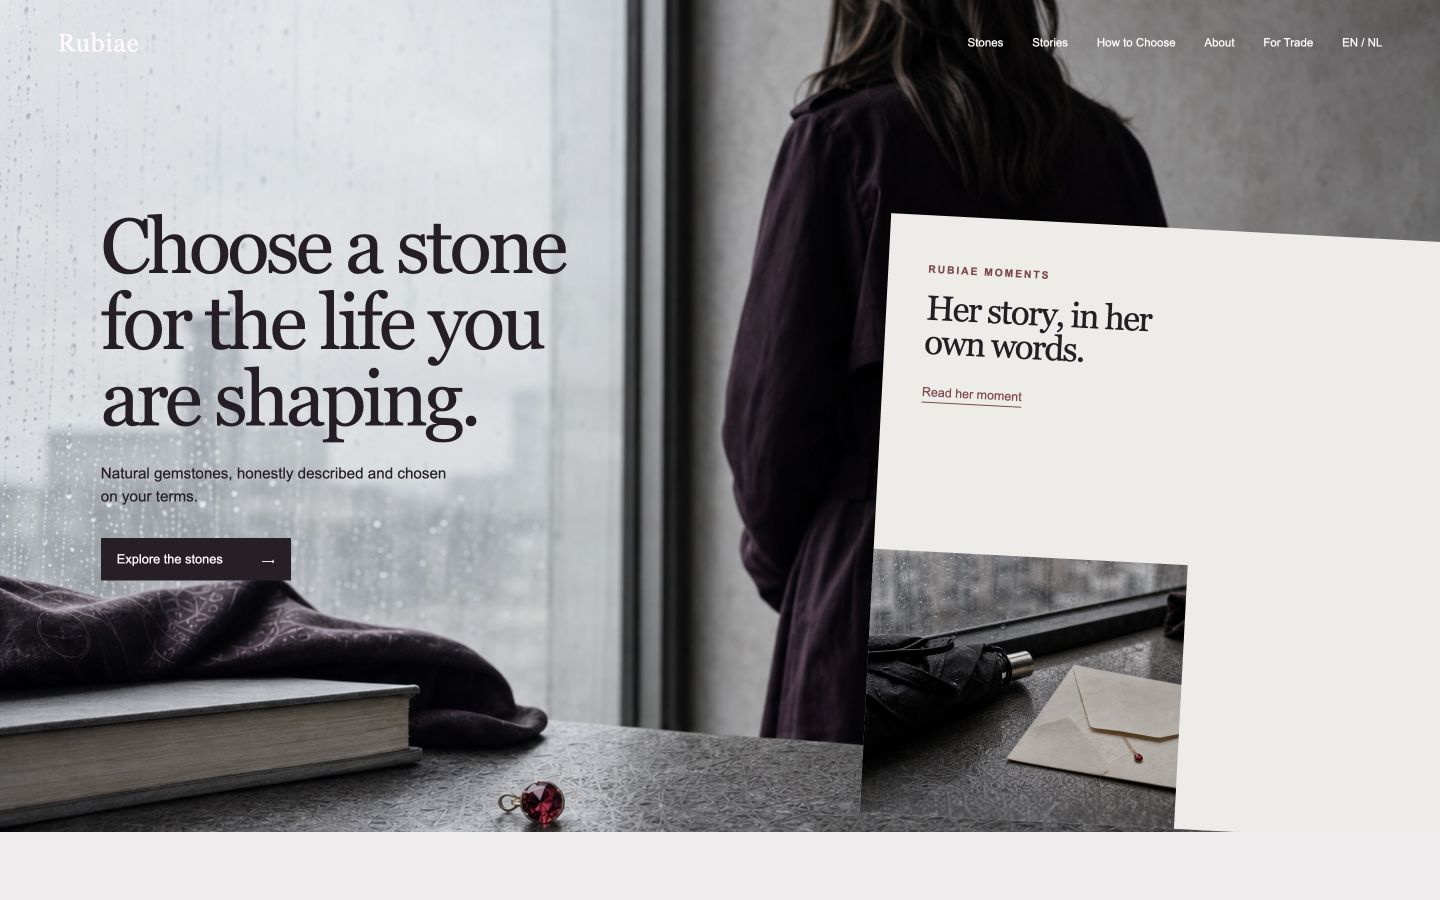
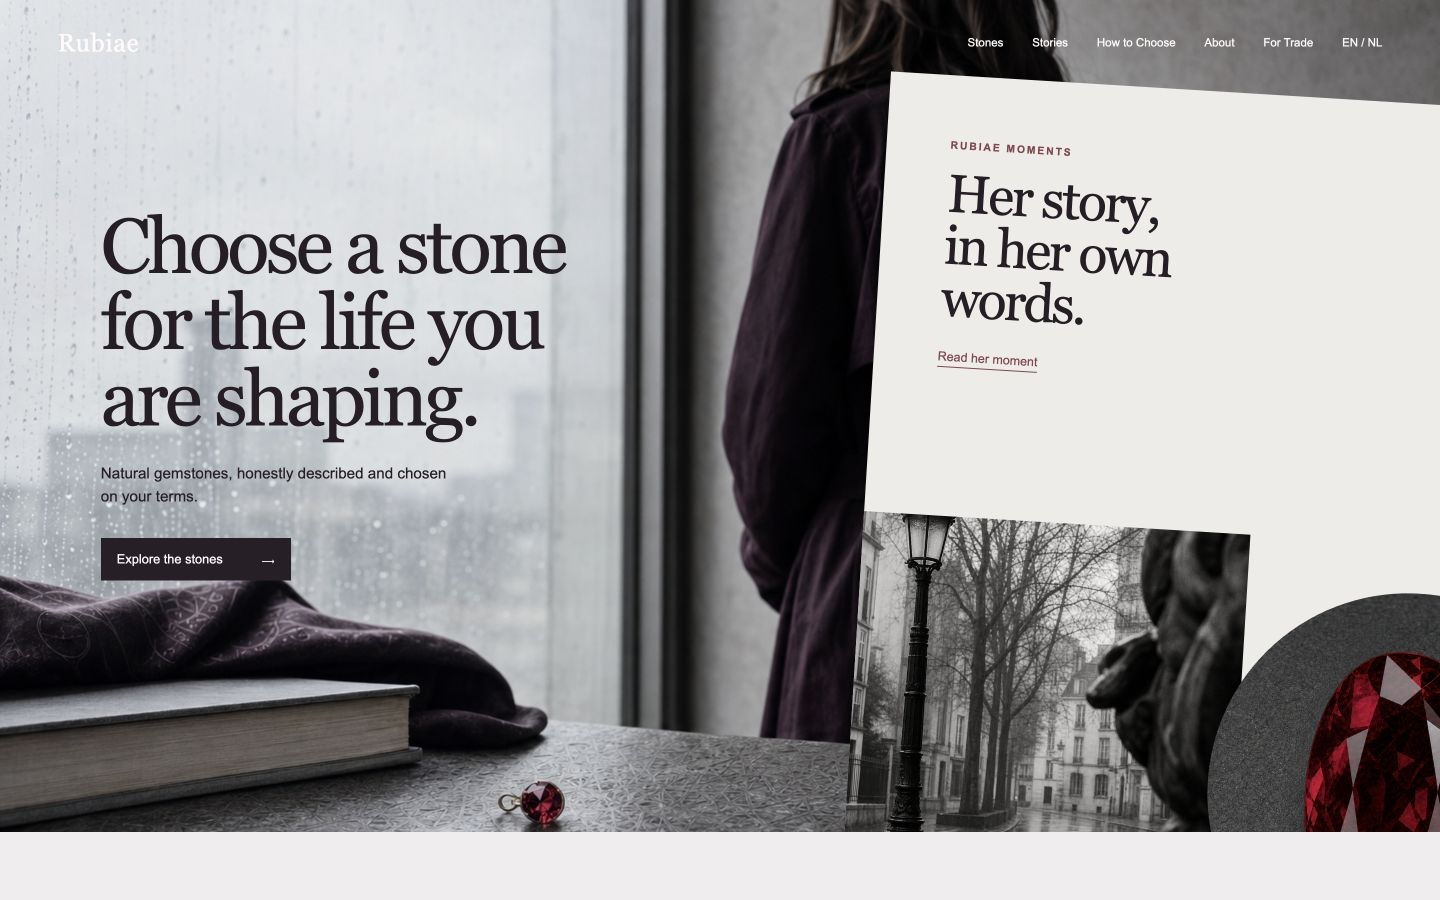
feat: restore original hero moments collage

Changed region(s): [[0.5625, 0.0622, 1.0, 0.9333], [0.6562, 0.4356, 0.7188, 0.4667]]

diff --git a/preview-prototype/src/styles.css b/preview-prototype/src/styles.css
@@ -52,33 +52,40 @@ h1, h2 { margin: 0; font-family: Georgia, serif; font-weight: 400; letter-spacin
 
 .hero-story {
   position: absolute;
-  right: -1.5rem;
-  bottom: -0.75rem;
-  width: min(40rem, 42vw);
-  height: 37.5rem;
+  right: -5.5rem;
+  bottom: -9rem;
+  width: min(46rem, 48vw);
+  height: 54rem;
   overflow: hidden;
   background: #eeece9;
-  transform: rotate(3deg);
+  transform: rotate(3.5deg);
   transform-origin: 100% 100%;
 }
-.hero-story img {
+.hero-story-street {
   position: absolute;
-  bottom: 0;
+  bottom: 7%;
   left: 0;
-  width: 52%;
-  height: 44%;
-  min-height: 0;
+  width: 56%;
+  height: 42%;
   object-fit: cover;
-  object-position: 18% center;
+}
+.hero-story-ruby {
+  position: absolute;
+  right: -10%;
+  bottom: -3%;
+  width: 58%;
+  aspect-ratio: 1;
+  border-radius: 50%;
+  object-fit: cover;
 }
 .hero-story div {
   position: relative;
   z-index: 1;
-  width: 58%;
-  padding: 3rem 2.5rem;
+  width: 54%;
+  padding: 4rem;
 }
 .eyebrow { margin: 0 0 1rem; color: #86444d; font-size: 0.65rem; font-weight: 700; letter-spacing: 0.18em; }
-.hero-story h2 { font-size: clamp(1.65rem, 2.4vw, 2.6rem); }
+.hero-story h2 { max-width: 7ch; font-size: clamp(2.9rem, 3.7vw, 4.25rem); }
 .text-link { display: inline-block; margin-top: 1.6rem; color: #86444d; font-size: 0.78rem; text-underline-offset: 0.45em; }
 
 .section-light { background: #efeded; }
@@ -127,27 +134,29 @@ h1, h2 { margin: 0; font-family: Georgia, serif; font-weight: 400; letter-spacin
     position: relative;
     right: auto;
     bottom: auto;
-    display: grid;
-    grid-template-columns: 7rem 11rem;
-    width: min(18rem, calc(100% - 2.5rem));
-    height: auto;
-    min-height: 0;
+    display: block;
+    width: min(20.5rem, calc(100% - 2.5rem));
+    height: 32rem;
     margin: 0 1.25rem 1.25rem auto;
-    overflow: visible;
+    overflow: hidden;
     transform: none;
   }
-  .hero-story img {
-    position: static;
-    width: 100%;
-    height: 100%;
-    min-height: 11rem;
-    object-position: 18% center;
+  .hero-story-street {
+    bottom: 0;
+    left: 0;
+    width: 62%;
+    height: 42%;
+  }
+  .hero-story-ruby {
+    right: -29%;
+    bottom: -6%;
+    width: 58%;
   }
   .hero-story div {
-    width: auto;
-    padding: 1rem;
+    width: 70%;
+    padding: 2rem 1.5rem;
   }
-  .hero-story h2 { font-size: 1.45rem; }
+  .hero-story h2 { max-width: 7ch; font-size: 2rem; }
   .hero-story .text-link { margin-top: 1rem; }
   .slow-look, .moments, .facts { grid-template-columns: 1fr; }
   .slow-look { gap: 2.5rem; padding: 5rem 1.5rem; }

diff --git a/preview-prototype/src/App.jsx b/preview-prototype/src/App.jsx
@@ -62,7 +62,8 @@ export function App() {
           <a className="solid-link" href="#stones">{text.hero.cta}<span aria-hidden="true">⟶</span></a>
         </div>
         <aside className="hero-story" aria-label="Rubiae Moments">
-          <img src="/assets/rubiae-moments-envelope.png" alt="Ruby jewellery on a paper envelope" />
+          <img className="hero-story-street" src="/assets/rubiae-moments-rain-street-v2.png" alt="Rainy city street and sculpture in monochrome" />
+          <img className="hero-story-ruby" src="/assets/rubiae-moments-ruby-v6.png" alt="Decorative close-up of a deep red ruby" />
           <div>
             <p className="eyebrow">{text.hero.storyLabel}</p>
             <h2>{text.hero.story}</h2>

diff --git a/preview-prototype/design-qa.md b/preview-prototype/design-qa.md
@@ -1,37 +1,42 @@
-# Rubiae preview prototype — Design QA
+# Rubiae Hero ruby reference correction — Design QA
 
-- **Source of truth:** `../docs/brand/rubiae-homepage-still-life-concept-v5.png` (803 × 1959, approved v5)
-- **Desktop evidence:** `.design-qa/desktop-1440x900.jpg` (1440 × 900 CSS px, density 1×)
-- **Mobile evidence:** `.design-qa/mobile-390x844.jpg` (390 × 844 CSS px, density 1×)
-- **Combined comparison:** `.design-qa/reference-vs-implementation.jpg` (approved source and implementation in one comparison surface)
-- **Runtime:** local Vite preview at `http://127.0.0.1:4173/`
+## Evidence
 
-## Acceptance evidence
+- **Binding source:** `/var/folders/c6/bk68f2cj2cqbbj8pjhg899lw0000gn/T/codex-clipboard-8f067538-5753-4759-8eba-34e788ae4a88.png` — 1092 × 1352 px, user-selected card close-up.
+- **Desktop implementation:** `.design-qa/desktop-1440x900.jpg` — 1440 × 900 CSS px, English Hero, menu closed.
+- **Mobile implementation:** `.design-qa/mobile-390x844.jpg` — 390 × 844 CSS px, scrolled card-region state.
+- **Focused comparison:** `.design-qa/reference-vs-implementation.jpg` — binding source and current desktop card in one same-height comparison.
+- **Runtime:** local Vite preview at `http://127.0.0.1:4173/`.
 
-- Desktop preserves the approved composition: rainy-window hero, left editorial headline, right human silhouette, paper Moments card, cool-grey palette, restrained plum accents, and serif-led hierarchy.
-- All six photographic assets load with non-zero natural dimensions. No placeholder, CSS art, duplicated baked-in copy, or missing image remains.
-- Mobile uses a dedicated stacked composition: live copy on a light field, followed by the hero photograph and then the Moments card. At 390 × 844: CTA bottom `493.96`, image top `504`, image bottom `888`, Moments top `888`, overlap `0`, horizontal overflow `0`.
-- EN/NL toggle works and synchronizes `html.lang`; mobile menu, anchor navigation, skip link, and visible keyboard focus work.
-- Source and built output contain no price, cart, checkout, payment, reservation, inventory, availability, product form, or Offer schema.
+## Fidelity result
 
-## Iteration history
+- Desktop keeps the approved portrait paper, `3.5deg` tilt, live text, and unchanged rainy-street crop.
+- The charcoal circle is now enlarged and raised to remove the excess white gap above it: desktop `right: -10%`, `bottom: -3%`, `width: 58%`.
+- The final 1254 × 1254 v6 raster is a deep berry-red, vertically oval faceted ruby. The paper edge crops it so only its left portion is visible, matching the binding source.
+- Mobile keeps the paper unrotated and uses `right: -29%`, `bottom: -6%`, `width: 58%`; document width equals the 390 px viewport.
+- All 8 images load with non-zero natural dimensions. No later page section or transactional behavior changed.
 
-1. Rejected the initial stitched static preview: duplicated copy, overlapping layers, missing images, and large empty regions.
-2. Rebuilt from the approved v5 reference as a React prototype with six text-free photographic assets.
-3. Independent review rejected the first mobile crop because the headline crossed the dark figure and `html.lang`/focus handling were incomplete.
-4. Independent review rejected the 20% mobile crop because the person and ruby disappeared.
-5. Replaced crop-only mobile layout with stacked copy/image/card; independent review then found a 30 px CTA/image overlap.
-6. Increased the mobile copy field to 31.5 rem. Final independent review passed desktop, 390 × 844 mobile, EN/NL, keyboard, image loading, overflow, build, tests, and no-commerce scan.
-7. Restored the Hero Moments feature as one tall paper sheet rotated `3deg` clockwise on desktop. The reference and current 1440 × 900 Hero were reviewed side by side; the mobile card remains unrotated in normal flow with zero image/card overlap and zero horizontal overflow.
+## Comparison history
+
+1. The prior v2 asset exposed a complete bright round ruby and left too much white space above the lower-right image.
+2. A geometry boundary test went RED for the prior values; the circle was enlarged and repositioned, then the test returned GREEN.
+3. Focused comparisons rejected v4 because too little ruby was visible and v5 because its pointed pear silhouette did not match the source.
+4. The v6 rounded vertical oval matches the requested silhouette, crop, dark berry palette, and partial edge exposure with no actionable P0/P1/P2 mismatch.
+
+## Responsive and interaction QA
+
+- At 390 × 844, the card is 328 × 512 px, document width is 390 px, and there is no horizontal overflow.
+- Mobile menu toggled `aria-expanded` from `false` to `true` and back.
+- EN/NL changed `html.lang` from `en` to `nl` and rendered the Dutch Hero headline, then returned to English.
+- Browser console contained only Vite/React development messages; no errors or warnings.
 
 ## Verification
 
-- `npm run build`: passed
-- `npm test`: 1/1 passed
-- `npm run test:sites`: 4/4 passed
-- Desktop geometry: 1440 × 900 viewport, `rotate(3deg)`, no overlap with headline, CTA, or navigation, and no horizontal overflow
-- Mobile geometry: 390 × 844 viewport, `transform: none`, static card image, zero image/card overlap, and no horizontal overflow
-- Independent visual/code review: PASS — no blockers
+- `npm test`: passed after the expected RED/implementation/GREEN cycle.
+- `npm run build`: passed; Sites artifacts prepared.
+- `npm run test:sites`: 4/4 passed.
+- Preview-only and form-control scans: zero matches; `git diff --check`: passed.
+- Independent final review: spec PASS, task quality PASS, no blockers.
 
 ## Final result
 

diff --git a/.scratch/hero-ruby-reference-fix/issue.md b/.scratch/hero-ruby-reference-fix/issue.md
@@ -1,0 +1,29 @@
+# GEM-005-HERO-002 — 首屏拼贴红宝石参考图纠偏
+
+## Scope
+
+- 将 Hero Moments 右下资产改为参考图中的深莓红纵向椭圆刻面宝石。
+- 灰色圆形背景上移并放大；宝石在纸张右边被裁切，只露左侧部分。
+- 保持街景、文字、卡片角度、后续页面和预览期无交易边界不变。
+
+## Acceptance
+
+- 自动化测试先以旧资产与旧几何值失败，再由最小实现变绿。
+- 1440 × 900 聚焦对照中，灰圆起始高度和宝石裁切关系匹配绑定截图，无 P0/P1/P2 偏差。
+- 390 × 844 无横向溢出、内容重叠或图片加载失败。
+- `npm run build`、`npm test`、`npm run test:sites` 与无交易扫描通过。
+
+## Source
+
+`/var/folders/c6/bk68f2cj2cqbbj8pjhg899lw0000gn/T/codex-clipboard-8f067538-5753-4759-8eba-34e788ae4a88.png`
+
+## Status
+
+Approved by the user on 2026-07-29; included with the implementation in the approved-scope commit.
+
+## Verification
+
+- RED: boundary test rejected the prior ruby asset and desktop geometry.
+- GREEN: v6 oval asset plus desktop `right: -10%`, `bottom: -3%`, `width: 58%`; mobile retains the stronger edge crop at `right: -29%`, `bottom: -6%`, `width: 58%`.
+- Same-screen desktop comparison and 390 × 844 browser QA show the source-matched partial ruby crop, reduced upper whitespace, no horizontal overflow, and 8/8 loaded images.
+- Independent final review: spec PASS; task quality PASS; no blockers; no-commerce boundary preserved.

diff --git a/preview-prototype/AGENTS.md b/preview-prototype/AGENTS.md
@@ -13,5 +13,5 @@ Build app UI in `src/`. Keep `.openai/hosting.json`, `worker/index.js`, `scripts
 - Never place live HTML copy over a reference image that already contains baked-in copy or interface elements.
 - Do not use gradients, CSS gemstones, placeholder rectangles, or empty blocks as substitutes for the reference photography.
 - Use the approved full-page reference for composition only; use separate text-free image assets in the implemented sections.
-- Keep the desktop Hero `Rubiae Moments` feature as one tall off-white paper sheet rotated about `3deg` clockwise, with its live copy and photo contained inside; keep the mobile card unrotated in normal flow after the Hero image.
+- Keep the desktop Hero `Rubiae Moments` feature as the original portrait collage sheet: about `3.5deg` clockwise, live copy upper-left, monochrome rainy-street image bottom-left, and an oversized circular charcoal crop lower-right with only the left part of its dark vertically oval ruby visible at the paper edge; keep the mobile card unrotated in normal flow after the Hero image.
 - Before handoff, compare same-viewport screenshots of the source and prototype. Fix overlapping copy, missing imagery, bad crops, excessive empty space, and invisible controls.
